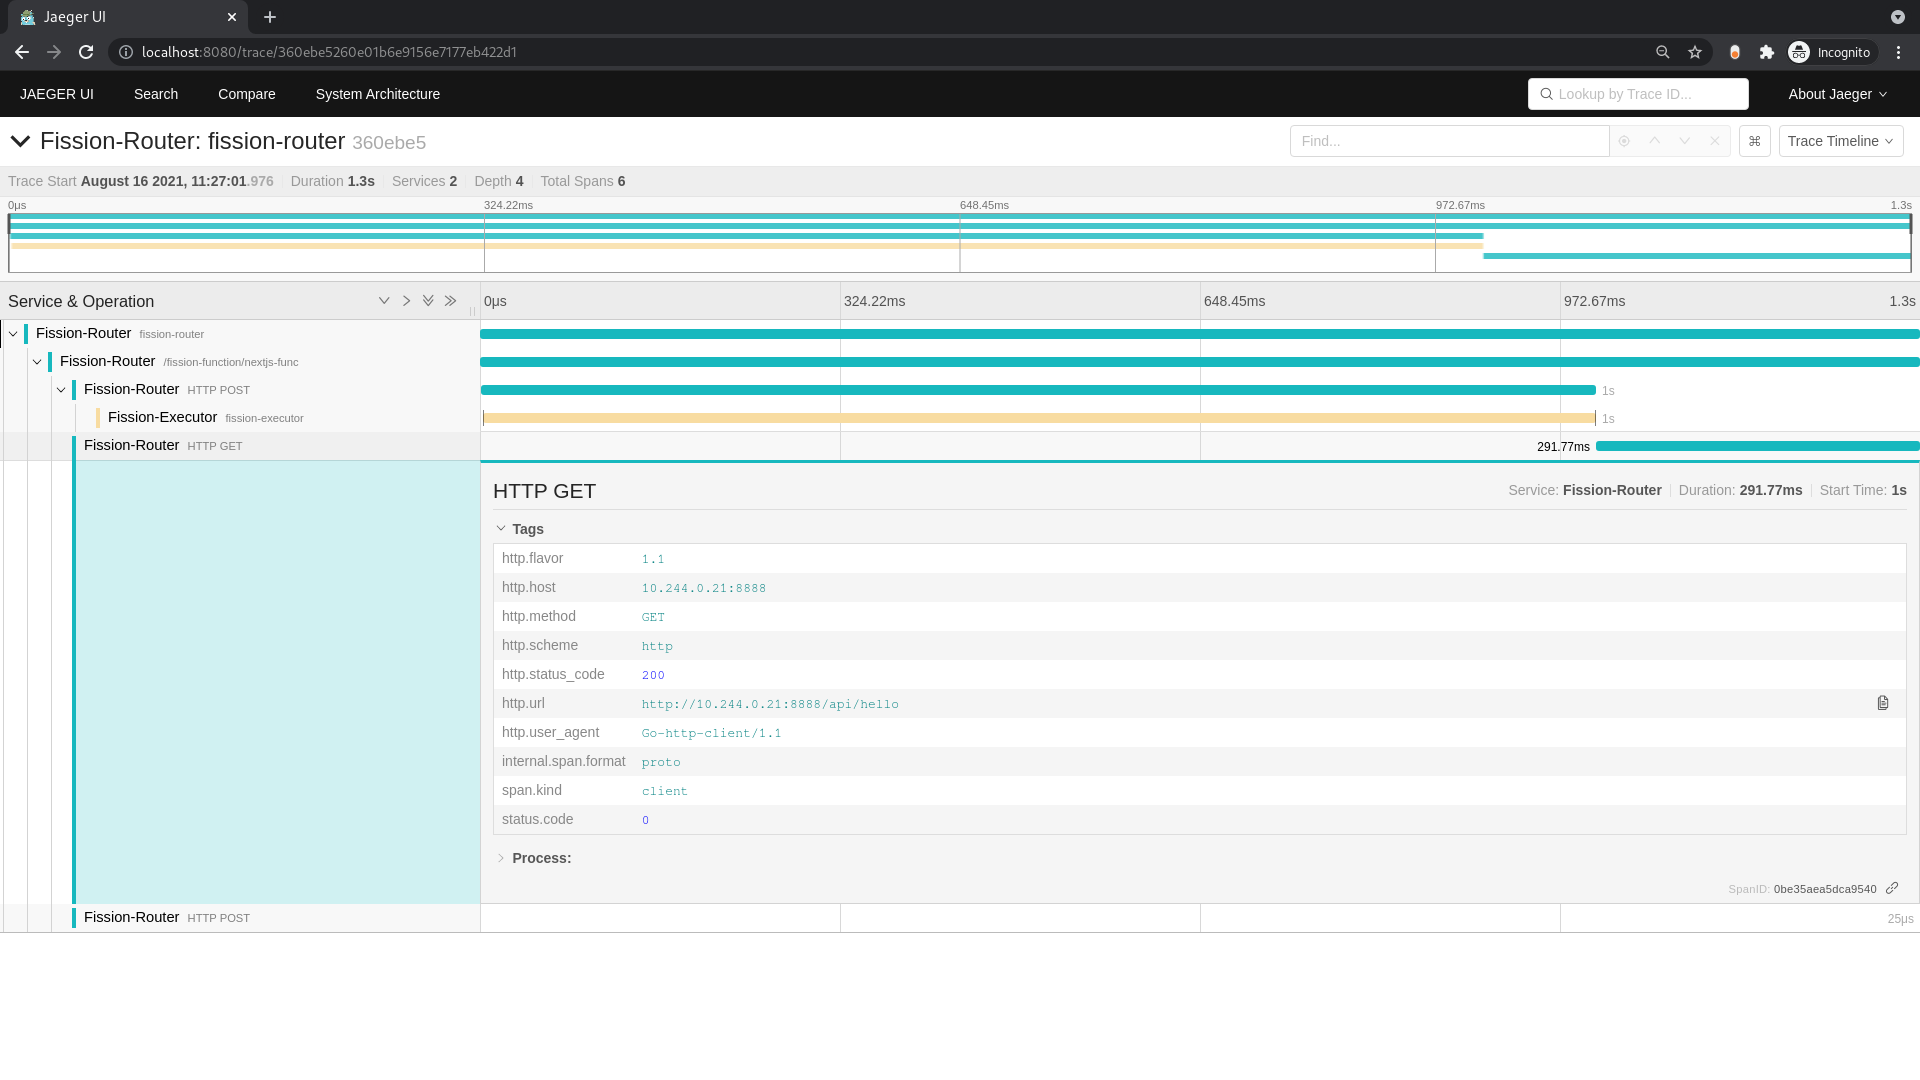
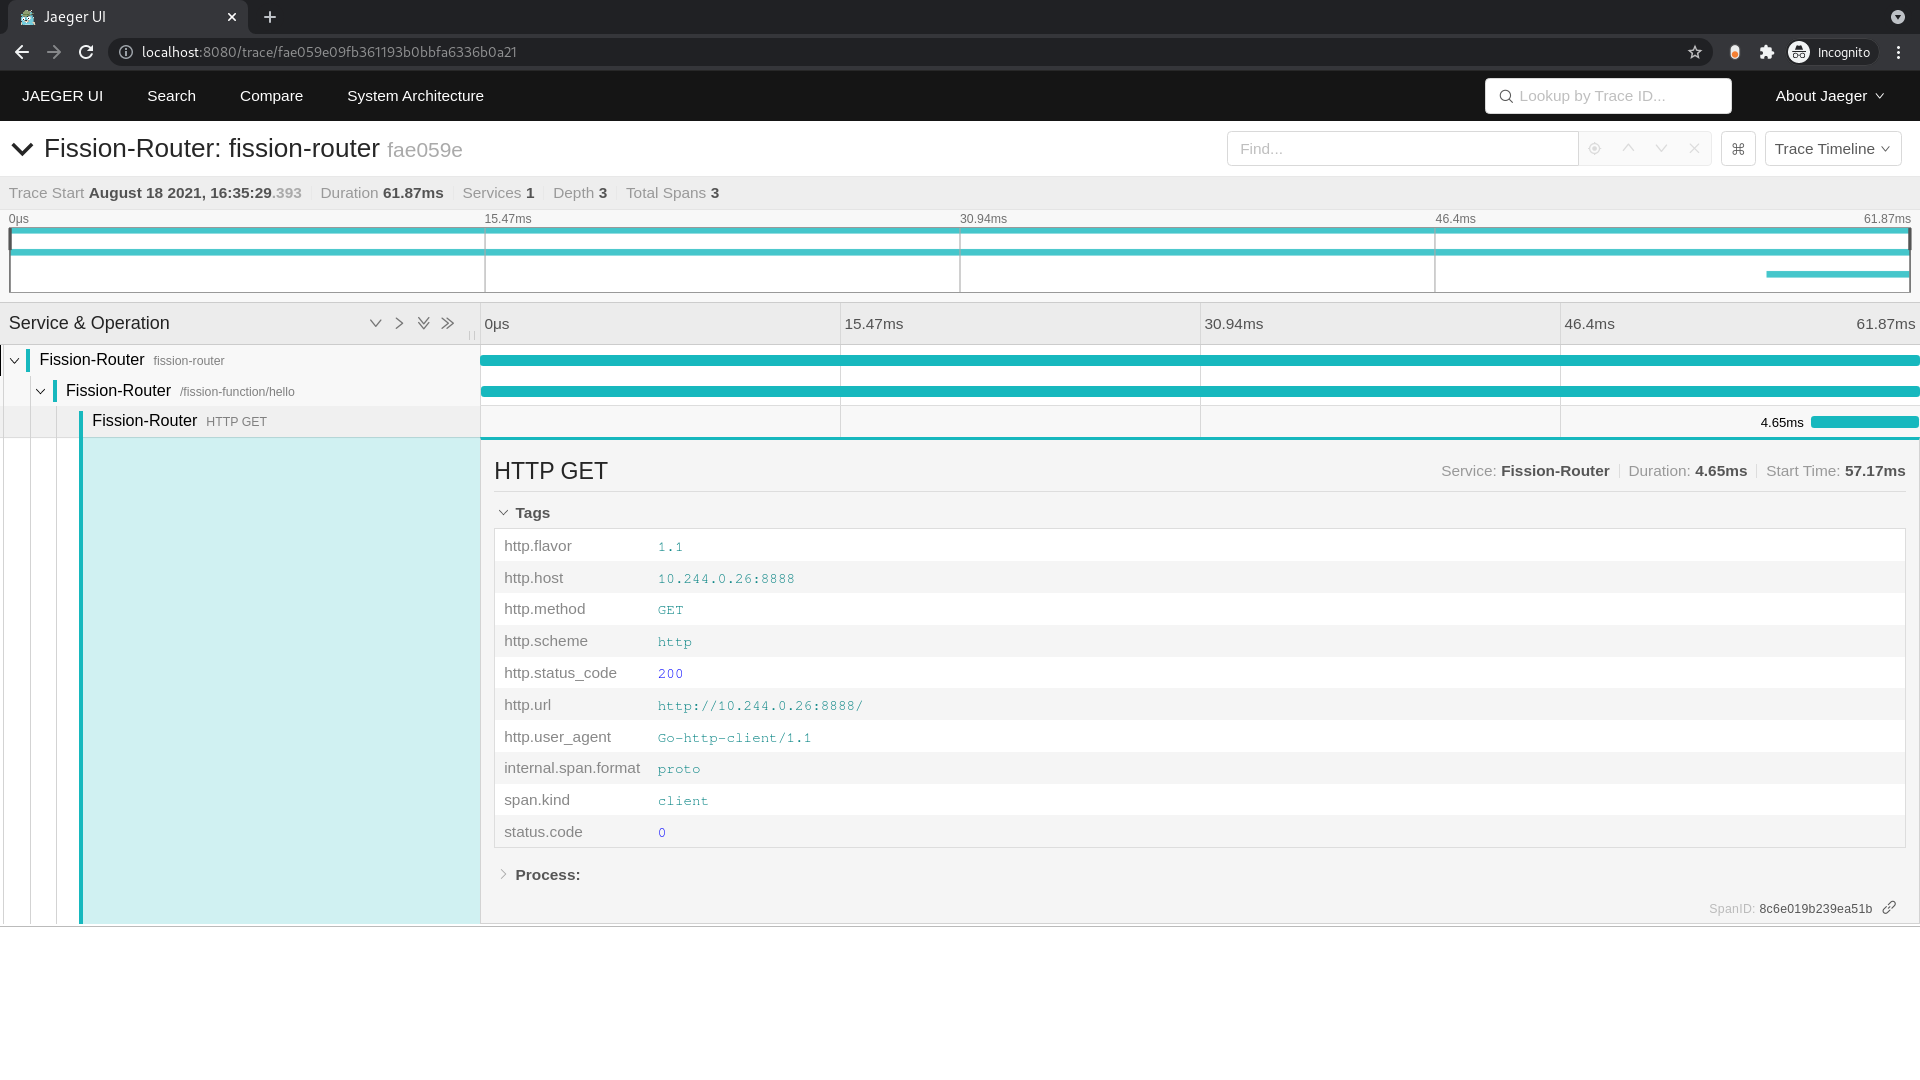
using operators for otel-collector and jaeger setup

Changed region(s): [[0.0, 0.0306, 1.0, 0.8556], [0.875, 0.825, 1.0, 0.8556], [0.3438, 0.5194, 0.4062, 0.55]]

diff --git a/docs/content/en/docs/usage/observability/opentelemetry.md b/docs/content/en/docs/usage/observability/opentelemetry.md
@@ -5,7 +5,9 @@ weight: 11
 
 ## Tracing in Fission
 
-Currently, Fission supports outputting traces to an OpenTracing Jaeger-formatted trace collection endpoint. This is great as it provides lots of insight into what Fission is doing and helps operators understand and maintain.
+Up to `1.14.1` release, Fission supports outputting traces to an OpenTracing Jaeger-formatted trace collection endpoint. This is great as it provides lots of insight into what Fission is doing and helps operators understand and maintain. However, as we add support OpenTelemetry, OpenTracing will be marked deprecated and removed in later releases.
+
+If you are starting fresh with Fission, we recommend using OpenTelemetry. This is primarily because OpenTelemetry makes robust, portable telemetry a built-in feature of cloud- native software. OpenTelemetry provides a single set of APIs, libraries, agents, and collector services to capture distributed traces and metrics from your application.
 
 ## OpenTelemetry
 
@@ -20,57 +22,217 @@ OpenTelemetry is a set of APIs, SDKs, tooling and integrations that are designed
 - [Helm](https://helm.sh/) (This post assumes helm 3 in use)
 - kubectl and kubeconfig configured
 
-### Setup OTEL Collector and Jaeger
+### OTEL Collector
 
-We will be using the definition files available in the [OpenTelemetry-Go](https://github.com/open-telemetry/opentelemetry-go.git) repository for an easy setup.
-Follow the steps below:
-
-```sh
-# clone the repository
-git clone https://github.com/open-telemetry/opentelemetry-go.git
-
-# change directory to opentelemetry-go/example/otel-collector
-cd opentelemetry-go/example/otel-collector
-
-# create the namespace
-make namespace-k8s
-
-# deploy Jaeger operator
-make jaeger-operator-k8s
-
-# after the operator is deployed, create the Jaeger instance
-make jaeger-k8s
-
-# finally, deploy the OpenTelemetry Collector
-make otel-collector-k8s
-```
-
-Find out where the Jaeger console is living. For us, we get the output:
+We will be using the [OpenTelemetry Operator for Kubernetes](https://github.com/open-telemetry/opentelemetry-operator) to setup OTEL collector.
+To install the operator in an existing cluster, `cert-manager` is required.
+Use the following commands to install `cert-manager` and the operator:
 
 ```sh
-kubectl get ingress --all-namespaces
+# cert-manager
+kubectl apply -f https://github.com/jetstack/cert-manager/releases/latest/download/cert-manager.yaml
 
-NAMESPACE       NAME           CLASS    HOSTS   ADDRESS   PORTS   AGE
-observability   jaeger-query   <none>   *                 80      54s
+# open telemetry operator
+kubectl apply -f https://github.com/open-telemetry/opentelemetry-operator/releases/latest/download/opentelemetry-operator.yaml
 ```
 
-Check if the `otel-collector` service has been created:
+Once the `opentelemetry-operator` deployment is ready, we need to create an OpenTelemetry Collector instance.
+The following configuration provides a good starting point, however, you may change as per your requirement:
+
+```sh
+kubectl apply -f - <<EOF
+apiVersion: v1
+kind: ConfigMap
+metadata:
+  name: otel-collector-conf
+  namespace: opentelemetry-operator-system
+  labels:
+    app: opentelemetry
+    component: otel-collector-conf
+data:
+  otel-collector-config: |
+    receivers:
+      # Make sure to add the otlp receiver.
+      # This will open up the receiver on port 4317
+      otlp:
+        protocols:
+          grpc:
+            endpoint: "0.0.0.0:4317"
+    processors:
+    extensions:
+      health_check: {}
+    exporters:
+      jaeger:
+        endpoint: "jaeger-collector.observability.svc.cluster.local:14250"
+        insecure: true
+      prometheus:
+        endpoint: 0.0.0.0:8889
+        namespace: "testapp"
+      logging:
+
+    service:
+      extensions: [health_check]
+      pipelines:
+        traces:
+          receivers: [otlp]
+          processors: []
+          exporters: [jaeger]
+
+        metrics:
+          receivers: [otlp]
+          processors: []
+          exporters: [prometheus, logging]
+---
+apiVersion: v1
+kind: Service
+metadata:
+  name: otel-collector
+  namespace: opentelemetry-operator-system
+  labels:
+    app: opentelemetry
+    component: otel-collector
+spec:
+  ports:
+    - name: otlp # Default endpoint for otlp receiver.
+      port: 4317
+      protocol: TCP
+      targetPort: 4317
+      nodePort: 30080
+    - name: metrics # Default endpoint for metrics.
+      port: 8889
+      protocol: TCP
+      targetPort: 8889
+  selector:
+    component: otel-collector
+  type: NodePort
+---
+apiVersion: apps/v1
+kind: Deployment
+metadata:
+  name: otel-collector
+  namespace: opentelemetry-operator-system
+  labels:
+    app: opentelemetry
+    component: otel-collector
+spec:
+  selector:
+    matchLabels:
+      app: opentelemetry
+      component: otel-collector
+  minReadySeconds: 5
+  progressDeadlineSeconds: 120
+  replicas: 1 #TODO - adjust this to your own requirements
+  template:
+    metadata:
+      annotations:
+        prometheus.io/path: "/metrics"
+        prometheus.io/port: "8889"
+        prometheus.io/scrape: "true"
+      labels:
+        app: opentelemetry
+        component: otel-collector
+    spec:
+      containers:
+        - command:
+            - "/otelcol"
+            - "--config=/conf/otel-collector-config.yaml"
+            # Memory Ballast size should be max 1/3 to 1/2 of memory.
+            - "--mem-ballast-size-mib=683"
+          env:
+            - name: GOGC
+              value: "80"
+          image: otel/opentelemetry-collector:0.6.0
+          name: otel-collector
+          resources:
+            limits:
+              cpu: 1
+              memory: 2Gi
+            requests:
+              cpu: 200m
+              memory: 400Mi
+          ports:
+            - containerPort: 4317 # Default endpoint for otlp receiver.
+            - containerPort: 8889 # Default endpoint for querying metrics.
+          volumeMounts:
+            - name: otel-collector-config-vol
+              mountPath: /conf
+          # - name: otel-collector-secrets
+          #   mountPath: /secrets
+          livenessProbe:
+            httpGet:
+              path: /
+              port: 13133 # Health Check extension default port.
+          readinessProbe:
+            httpGet:
+              path: /
+              port: 13133 # Health Check extension default port.
+      volumes:
+        - configMap:
+            name: otel-collector-conf
+            items:
+              - key: otel-collector-config
+                path: otel-collector-config.yaml
+          name: otel-collector-config-vol
+EOF
+```
+
+Note: The above configuration is borrowed from the [OpenTelemetry Collector traces example](https://github.com/open-telemetry/opentelemetry-go/tree/main/example/otel-collector), with some minor changes.
+
+### Jaeger
+
+We will using the [Jaeger Operator for Kubernetes](https://github.com/jaegertracing/jaeger-operator) to deploy Jaeger.
+To install the operator, run:
+
+```sh
+kubectl create namespace observability
+kubectl create -n observability -f https://raw.githubusercontent.com/jaegertracing/jaeger-operator/master/deploy/crds/jaegertracing.io_jaegers_crd.yaml
+kubectl create -n observability -f https://raw.githubusercontent.com/jaegertracing/jaeger-operator/master/deploy/service_account.yaml
+kubectl create -n observability -f https://raw.githubusercontent.com/jaegertracing/jaeger-operator/master/deploy/role.yaml
+kubectl create -n observability -f https://raw.githubusercontent.com/jaegertracing/jaeger-operator/master/deploy/role_binding.yaml
+kubectl create -n observability -f https://raw.githubusercontent.com/jaegertracing/jaeger-operator/master/deploy/operator.yaml
+```
+
+The operator will activate extra features if given cluster-wide permissions. To enable that, run:
+
+```sh
+kubectl create -f https://raw.githubusercontent.com/jaegertracing/jaeger-operator/master/deploy/cluster_role.yaml
+kubectl create -f https://raw.githubusercontent.com/jaegertracing/jaeger-operator/master/deploy/cluster_role_binding.yaml
+```
+
+Note that you'll need to download and customize the cluster_role_binding.yaml if you are using a namespace other than observability.
+
+Once the jaeger-operator deployment in the namespace observability is ready, create a Jaeger instance, like:
+
+```sh
+kubectl apply -n observability -f - <<EOF
+apiVersion: jaegertracing.io/v1
+kind: Jaeger
+metadata:
+  name: jaeger
+EOF
+```
+
+Check if the `otel-collector` and `jaeger-query` service has been created:
 
 ```sh
 kubectl get svc --all-namespaces
 
-NAMESPACE       NAME                        TYPE        CLUSTER-IP      EXTERNAL-IP   PORT(S)                                  AGE
-default         kubernetes                  ClusterIP   10.96.0.1       <none>        443/TCP                                  2m39s
-kube-system     kube-dns                    ClusterIP   10.96.0.10      <none>        53/UDP,53/TCP,9153/TCP                   2m38s
-observability   jaeger-agent                ClusterIP   None            <none>        5775/UDP,5778/TCP,6831/UDP,6832/UDP      38s
-observability   jaeger-collector            ClusterIP   10.96.238.36    <none>        9411/TCP,14250/TCP,14267/TCP,14268/TCP   38s
-observability   jaeger-collector-headless   ClusterIP   None            <none>        9411/TCP,14250/TCP,14267/TCP,14268/TCP   38s
-observability   jaeger-operator-metrics     ClusterIP   10.96.18.77     <none>        8383/TCP,8686/TCP                        38s
-observability   jaeger-query                ClusterIP   10.96.94.227    <none>        16686/TCP,16685/TCP                      38s
-observability   otel-collector              NodePort    10.96.141.105   <none>        4317:30080/TCP,8889:31521/TCP            50s
+NAMESPACE                       NAME                                                        TYPE        CLUSTER-IP      EXTERNAL-IP   PORT(S)                                  AGE
+cert-manager                    cert-manager                                                ClusterIP   10.96.228.4     <none>        9402/TCP                                 7m50s
+cert-manager                    cert-manager-webhook                                        ClusterIP   10.96.214.220   <none>        443/TCP                                  7m50s
+default                         kubernetes                                                  ClusterIP   10.96.0.1       <none>        443/TCP                                  9m35s
+kube-system                     kube-dns                                                    ClusterIP   10.96.0.10      <none>        53/UDP,53/TCP,9153/TCP                   9m33s
+observability                   jaeger-agent                                                ClusterIP   None            <none>        5775/UDP,5778/TCP,6831/UDP,6832/UDP      3s
+observability                   jaeger-collector                                            ClusterIP   10.96.48.27     <none>        9411/TCP,14250/TCP,14267/TCP,14268/TCP   3s
+observability                   jaeger-collector-headless                                   ClusterIP   None            <none>        9411/TCP,14250/TCP,14267/TCP,14268/TCP   3s
+observability                   jaeger-operator-metrics                                     ClusterIP   10.96.164.206   <none>        8383/TCP,8686/TCP                        61s
+observability                   jaeger-query                                                ClusterIP   10.96.186.29    <none>        16686/TCP,16685/TCP                      3s
+opentelemetry-operator-system   opentelemetry-operator-controller-manager-metrics-service   ClusterIP   10.96.29.83     <none>        8443/TCP                                 6m11s
+opentelemetry-operator-system   opentelemetry-operator-webhook-service                      ClusterIP   10.96.74.0      <none>        443/TCP                                  6m11s
+opentelemetry-operator-system   otel-collector                                              NodePort    10.96.107.99    <none>        4317:30080/TCP,8889:30898/TCP            2m22s
 ```
 
-Now, setup a port forward to the `otel-collector` service:
+Now, setup a port forward to the `jaeger-query` service:
 
 ```sh
 kubectl port-forward service/jaeger-query -n observability 8080:16686 &
@@ -85,65 +247,33 @@ In order to enable OpenTelemetry, we need to explicitly set the value of `otelCo
 
 ```sh
 export FISSION_NAMESPACE=fission
-helm install --version 1.14.1 --namespace $FISSION_NAMESPACE \
+helm install --namespace $FISSION_NAMESPACE \
   fission fission-charts/fission-all \
   --set openTracing.enabled=false \
-  --set otelCollectorEndpoint="otel-collector.observability.svc:4317"
+  --set otelCollectorEndpoint="otel-collector.opentelemetry-operator-system.svc:4317"
 ```
 
-Note: You may have to change the `otelCollectorEndpoint` value as per your setup.
-
-Currently, Fission supports both - OpenTracing (added a while ago) and OpenTelemetry (new addition).
-In a future release, support for OpenTracing will be removed and OpenTelemetry will be used by default.
+Note that you may have to change the `otelCollectorEndpoint` value as per your setup.
 
 ## Testing
 
 In order to verify that our setup is working and we are able to receive traces, we will deploy and test a fission function.
-
-### NextJS App
-
-For this test we will be using the [NextJS App on Fission](https://github.com/fission/examples/tree/master/samples/nextjs-prefixpath) example.
+For this test we will be using a simple NodeJS based function.
 
 ```sh
-git clone https://github.com/fission/examples.git && cd examples/samples/nextjs-prefixpath
+# create an environment
+fission env create --name nodejs --image fission/node-env
+
+# get hello world function
+curl https://raw.githubusercontent.com/fission/examples/master/nodejs/hello.js > hello.js
+
+# register the function with Fission
+fission function create --name hello --env nodejs --code hello.js
+
+# run the function
+fission function test --name hello
+hello, world!
 ```
-
-The example provides all the fission spec files to deploy the function.
-You can build and deploy the app as a function by executing the command:
-
-```sh
-$ ./deploy/build.sh
-```
-
-Note:
-
-- `build.sh` assumes you are using kind cluster. Please make necessary changes according to Kubernetes cluster type.
-- This example uses modified NodeJS environment and builder. These would be available in Fission default NodeJS environment soon.
-
-In order to cleanup, you can execute the following command:
-
-```sh
-$ ./deploy/destroy.sh
-```
-
-Before proceeding please ensure that the package build for deployed function has `succeeded`.
-If it is in `running` state, please wait till it succeeds.
-
-Setup a port forward to the router, just so our testing becomes easy:
-
-```sh
-kubectl port-forward svc/router 8888:80 -n fission &
-```
-
-Now, test the function using the following request:
-
-```sh
-fission function test --name nextjs-func --subpath '/api/hello'
-{"name":"John Doe"}
-```
-
-If you see the response, then function is working as expected.
-Let's look for traces next.
 
 ### Traces with Jaeger
 
@@ -156,3 +286,4 @@ Select the trace and on the next page expand the spans.
 You should be able to see the request flow similar to the one below:
 
 ![Fission OpenTelemetry](../assets/fission-otel.png)
+
